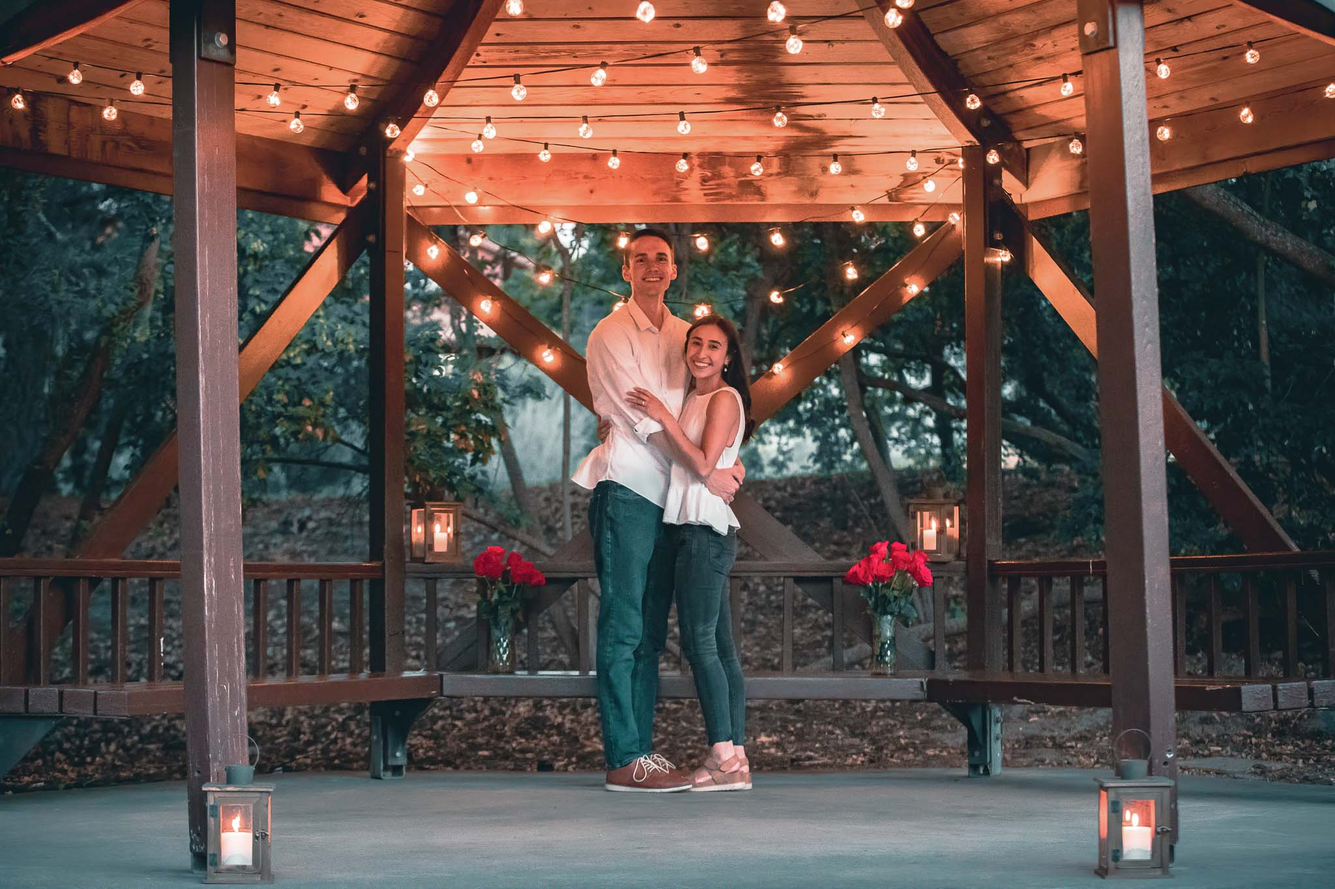
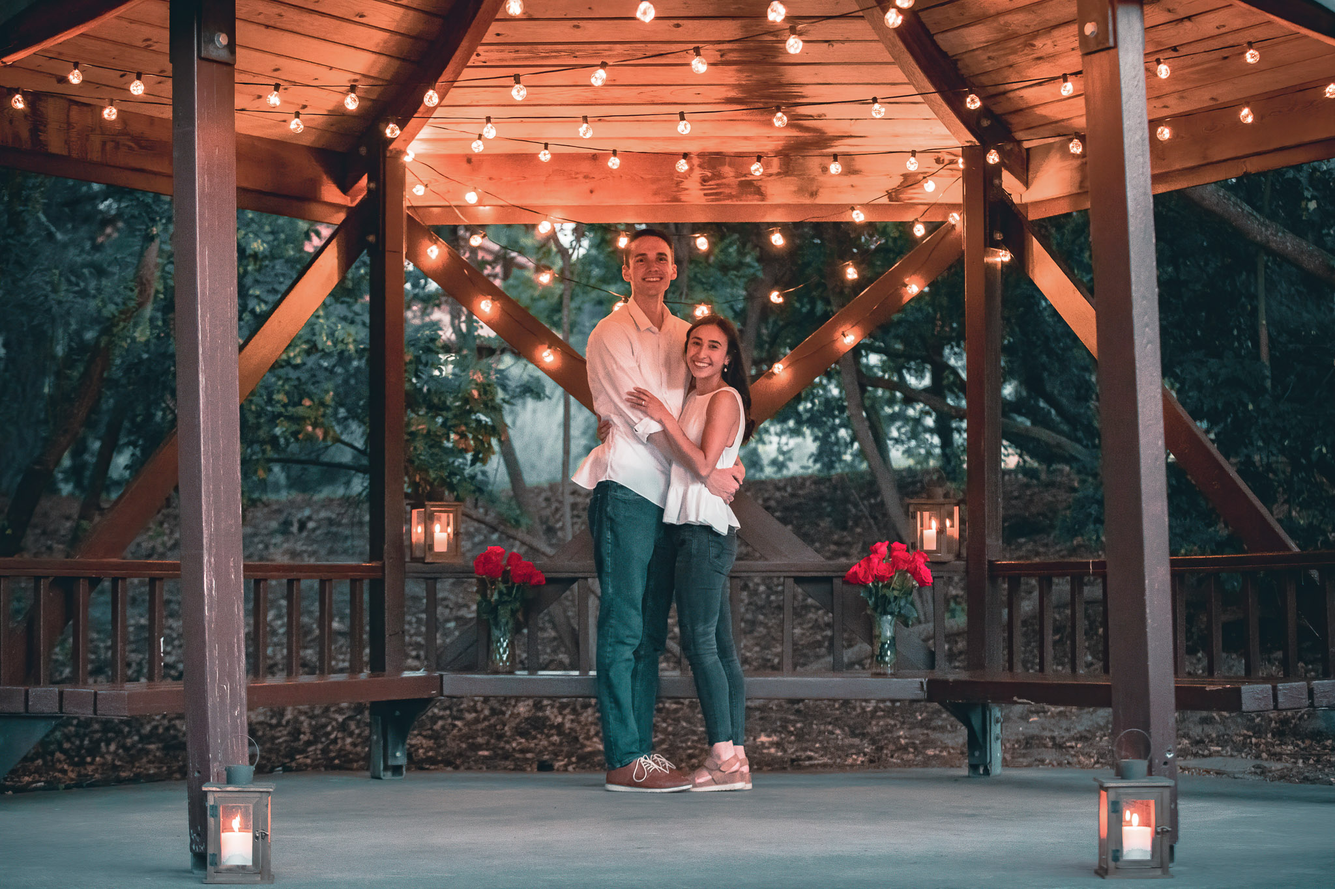
Styling tweaks to about me page. Update cover photos etc.

Changed region(s): [[0.7188, 0.1538, 0.75, 0.1846], [0.6562, 0.6154, 0.6875, 0.6462]]

diff --git a/src/components/templates/AboutPage.js b/src/components/templates/AboutPage.js
@@ -56,7 +56,7 @@ const AboutPage = () => {
 						</MDBCol>
 						<MDBCol lg="7">
 							<div className="mb-2 p-0 text-dark">
-								<h4 className="smaller-text">
+								<h4>
 									<li className="mr-2 fa fa-camera-retro" />
 									<span className="ms-2">Photographer</span>
 								</h4>
@@ -72,7 +72,7 @@ const AboutPage = () => {
 							</p>
 						</MDBCol>
 					</MDBRow>
-					<MDBRow className="ps-0 pt-4 smaller-text">
+					<MDBRow className="ps-0 pt-4 mb-4">
 						<MDBCol lg="3">
 							<h6 className="tech-info text-dark">My Camera Gear</h6>
 							<span className="unorder-list">
@@ -102,7 +102,7 @@ const AboutPage = () => {
 					<MDBRow className="mt-5">
 						<MDBCol lg="7">
 							<div className="mb-2 p-0 text-dark">
-								<h4 className="smaller-text">
+								<h4>
 									<i className="mr-2 fas fa-laptop-code" />
 									<span className="ms-2">Software Engineer</span>
 								</h4>
@@ -136,7 +136,7 @@ const AboutPage = () => {
 							</div>
 						</MDBCol>
 					</MDBRow>
-					<MDBRow className="pt-4 smaller-text">
+					<MDBRow className="pt-4">
 						<MDBCol lg="5" offsetLg="7">
 							<h4 className="tech-info text-dark">Skills</h4>
 							<span className="unorder-list">
@@ -170,7 +170,7 @@ const AboutPage = () => {
 						</MDBCol>
 						<MDBCol lg="8" className="mt-1">
 							<div className="mb-2 p-0 text-dark">
-								<h4 className="smaller-text">
+								<h4>
 									<i className="mr-2 fas fa-mountain" />
 									<span className="ms-2">Life</span>
 								</h4>
@@ -194,7 +194,7 @@ const AboutPage = () => {
 							</p>
 						</MDBCol>
 					</MDBRow>
-					<MDBRow className="ps-0 pt-1 smaller-text pb-4">
+					<MDBRow className="ps-0 pt-1 pb-4">
 						<h6 className="tech-info text-dark">Hobbies</h6>
 						<MDBCol sm="6" lg="3">
 							<span className="unorder-list">

diff --git a/src/components/molecules/CarouselIntroItem.js b/src/components/molecules/CarouselIntroItem.js
@@ -26,11 +26,8 @@ const CarouselIntroItem = ({ view, active }) => {
 												<NavBarLink link="/projects">
 													<MDBBtn type="button" className="m-1 bg-white" color="white" onClick={() => trackGA('Home_Page_All_Projects')}>All Projects</MDBBtn>
 												</NavBarLink>
-												<AnchorLink href="#headerbox">
-													<MDBBtn type="button" className="m-1" color="danger" onClick={() => trackGA('Portfolio_Anchor')}>Portfolio</MDBBtn>
-												</AnchorLink>
 												<NavBarLink link="/about">
-													<MDBBtn type="button" className="m-1 text-white" outline color="black" onClick={() => trackGA('About_Me')}>About Me</MDBBtn>
+													<MDBBtn type="button" className="m-1" color="danger" onClick={() => trackGA('About_Me')}>About Me</MDBBtn>
 												</NavBarLink>
 												<AnchorLink href="#footer_anchor">
 													<MDBBtn type="button" className="m-1 text-white" outline color="white" onClick={() => trackGA('Contact_Anchor')}>Contact</MDBBtn>

diff --git a/src/components/organisms/Footer.js b/src/components/organisms/Footer.js
@@ -34,10 +34,12 @@ const Footer = () => {
 					<MDBRow className="row mt-3">
 						<MDBCol md="4" lg="3" xl="3" className="mx-auto mb-4">
 							<h6 className="text-uppercase fw-bold mb-3">
-								<i className="fa fa-gem" />Peter Peck Photography
+								<i className="fa fa-gem" />
+								Peter Peck Photography
 							</h6>
 							<p className="no-indentation">Please reach out to me if you have any requests or inquiries!</p>
-							<p className="no-indentation">Be sure to check out and follow me on social media!</p>
+							<p className="no-indentation">Be sure to check out and follow me on social media! Links right above this!</p>
+							<p className="no-indentation">Links to my socia media are right above this!</p>
 						</MDBCol>
 						<MDBCol md="4" lg="2" xl="2" className="mx-auto mb-4">
 							<h6 className="text-uppercase fw-bold mb-3">

diff --git a/src/utils/photo_projects/travel/CALIFORNIA.js b/src/utils/photo_projects/travel/CALIFORNIA.js
@@ -1,4 +1,4 @@
-import BackgroundImage from '../../../images/allprojects/travel/california/landscape/img-19.jpg'
+import BackgroundImage from '../../../images/allprojects/travel/california/landscape/img-26.jpg'
 import { importAll, shuffleArray } from '../../helpers/functions';
 
 const headerData = {

diff --git a/src/components/molecules/NavBar.js b/src/components/molecules/NavBar.js
@@ -1,6 +1,5 @@
 import PropTypes from 'prop-types';
 import { MDBNavbarNav } from 'mdb-react-ui-kit';
-import AnchorLink from 'react-anchor-link-smooth-scroll';
 import NavBarLink from '../atoms/NavBarLink';
 import NavBarItem from '../atoms/NavBarItem';
 

diff --git a/src/components/organisms/ResponsiveGallery.js b/src/components/organisms/ResponsiveGallery.js
@@ -22,7 +22,7 @@ const ResponsiveGallery = ({ imageArrayProp, showFilterProp }) => {
 	useEffect(() => {
 		if(!showFilterProp){
 			window.scroll({
-				top: 500,
+				top: 350,
 				behavior: 'smooth'
 			});
 			setImageArray(imageArrayProp);

diff --git a/src/App.css b/src/App.css
@@ -655,7 +655,7 @@ button:hover {
 /* small mobile :320px. */
 
 @media only screen and (max-width: 479px) {
-	.container p, .smaller-text {
+	.container p {
 		font-size: 0.7em;
 	}
 	.container {
